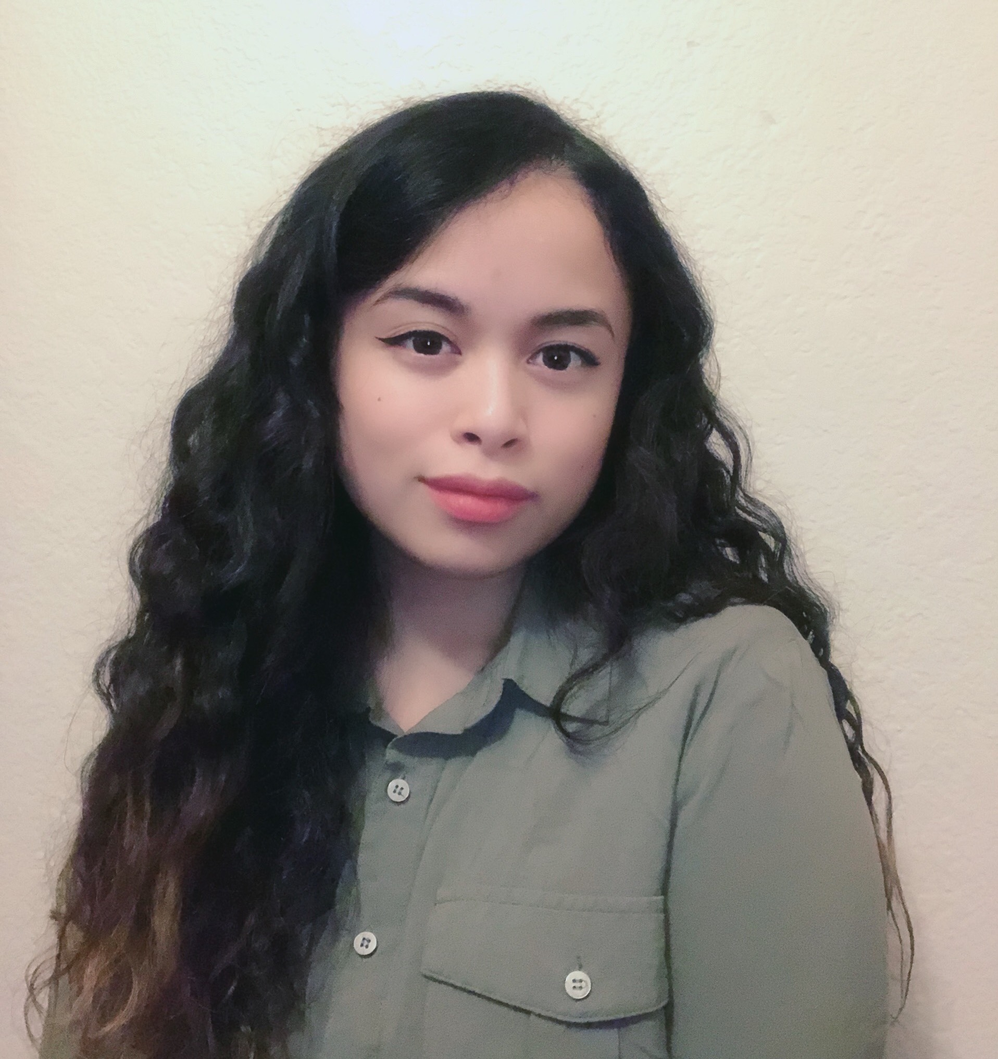
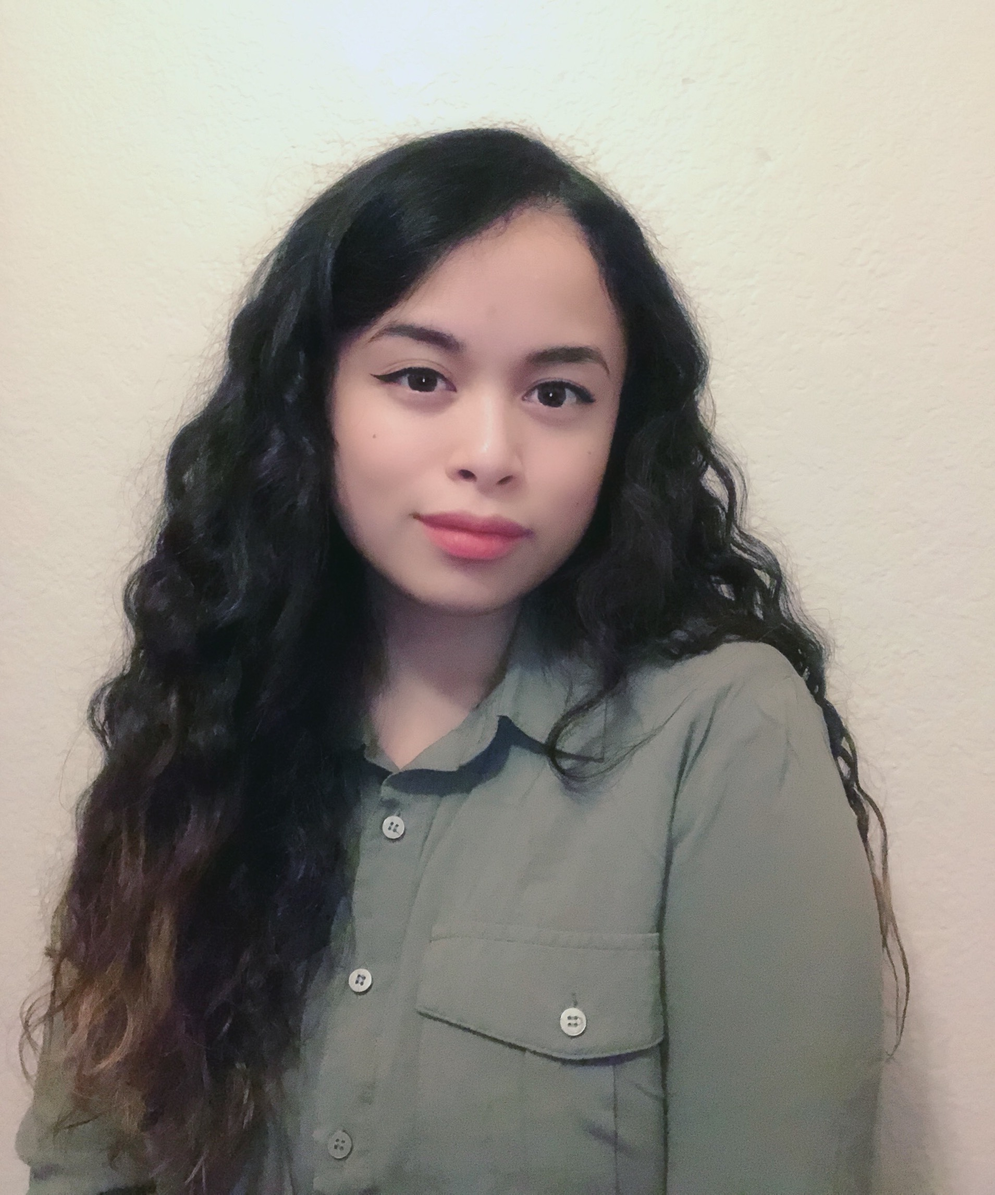
Update profile, case study, and footer

diff --git a/about.html b/about.html
@@ -4,14 +4,15 @@
     <meta charset="utf-8" />
     <meta name="viewport" content="width=device-width, initial-scale=1" />
     <title>About Me</title>
-    <link rel="icon" type="image/jpg" href="img/logo_size.jpg" />
+    <link rel="icon" type="image/png" sizes="32x32" href="favicon_io/favicon-32x32.png" />
+    <!-- <link rel="manifest" href="/site.webmanifest" /> -->
     <link
       rel="stylesheet"
       href="https://cdn.jsdelivr.net/npm/bootstrap@4.5.3/dist/css/bootstrap.min.css"
       integrity="sha384-TX8t27EcRE3e/ihU7zmQxVncDAy5uIKz4rEkgIXeMed4M0jlfIDPvg6uqKI2xXr2"
       crossorigin="anonymous"
     />
-    <link rel="stylesheet" type="text/css" href="css/style.production.css" />
+    <link rel="stylesheet" type="text/css" href="css/styles.css" />
   </head>
 
   <body>
@@ -80,10 +81,13 @@
             data-parent="#accordionParent"
           >
             <div class="card-body">
-              Hi! 👋🏼 &nbsp;I'm a Web Developer with a love for creativity and problem-solving. I
-              enjoy the process of finding creative ways to reach best possible solutions to
-              technical problems. By building web apps, I am continually challenged, creatively
-              inspired, and fulfilled with each project I complete from scratch.
+              Hi 👋🏼 &nbsp;I’m a Project Coordinator-turned-Web Developer. After some time completing
+              projects for construction sites, I decided to pursue a career that would allow me to
+              be more creatively and technically challenged. My diverse background being a project
+              coordinator, assistant camp counselor and a postgraduate student has strengthened my
+              abilities in communication, collaboration, organization, time management, project
+              completion, and research. I am now looking to turn my love for problem-solving and
+              creativity into a full-time career developing web applications.
               <br />
               <br />
               I aspire to join a team of developers and designers who strive to create products that
@@ -97,7 +101,7 @@
               watching my favorite shows and learning a new language (currently learning Korean).
               Sometimes, I dabble in music, painting, baking, cooking, and playing Animal Crossing
               as other creative outlets. I also enjoy drinking milk teas, so I'm often found
-              ordering to go from my favorite places during the weekends!
+              ordering from my favorite places during the weekends!
             </div>
           </div>
         </div>
@@ -132,8 +136,8 @@
                 <li>✅ &nbsp; &nbsp;Assistant Camp Counselor &commat; BrainVyne</li>
               </ul>
               <p>
-                My resume is available for viewing via the link below 👇🏼 &nbsp; Feel free to check
-                it out!
+                My resume is available for viewing via the link below 👇🏼 &nbsp;Feel free to check it
+                out!
               </p>
             </div>
           </div>
@@ -245,12 +249,12 @@
         /></a>
         <br />
         <div class="footer-credit">
-          <img
+          <!-- <img
             src="img/white_logo_transparent_background.png"
             alt="Logo Photo spelling out the name Venus Mae"
             class="footer-logo"
-          />
-          <p class="footer-year">&copy; 2020</p>
+          /> -->
+          <p class="footer-year">Built by Venus Mae &copy; 2021</p>
         </div>
       </div>
     </footer>

diff --git a/case.html b/case.html
@@ -4,18 +4,19 @@
     <meta charset="utf-8" />
     <meta name="viewport" content="width=device-width, initial-scale=1" />
     <title>Case Study</title>
-    <link rel="icon" type="image/jpg" href="img/logo_size.jpg" />
+    <link rel="icon" type="image/png" sizes="32x32" href="favicon_io/favicon-32x32.png" />
+    <!-- <link rel="manifest" href="favicon_io/site.webmanifest" /> -->
     <link
       rel="stylesheet"
       href="https://cdn.jsdelivr.net/npm/bootstrap@4.5.3/dist/css/bootstrap.min.css"
       integrity="sha384-TX8t27EcRE3e/ihU7zmQxVncDAy5uIKz4rEkgIXeMed4M0jlfIDPvg6uqKI2xXr2"
       crossorigin="anonymous"
     />
-    <link rel="stylesheet" type="text/css" href="css/style.production.css" />
+    <link rel="stylesheet" type="text/css" href="css/styles.css" />
   </head>
 
   <body>
-    <header class="page-header container">
+    <header class="page-header container" id="top">
       <nav class="navbar navbar-expand-lg navbar-light">
         <a class="navbar-brand" href="index.html"
           ><img src="img/white_logo_transparent_background.png" alt="Logo of the name Venus Mae"
@@ -435,6 +436,7 @@
           learn new languages/frameworks/libraries through dedicated reading and research.
         </p>
         <p>Thank you for letting me share this journery with you!</p>
+        <button class="toTop-btn"><a href="#top" class="toTop-link">Back to top ⬆</a></button>
       </div>
     </div>
 
@@ -465,12 +467,12 @@
         /></a>
         <br />
         <div class="footer-credit">
-          <img
+          <!-- <img
             src="img/white_logo_transparent_background.png"
             alt="Logo Photo spelling out the name Venus Mae"
             class="footer-logo"
-          />
-          <p class="footer-year">&copy; 2020</p>
+          /> -->
+          <p class="footer-year">Built by Venus Mae &copy; 2021</p>
         </div>
       </div>
     </footer>

diff --git a/css/styles.css b/css/styles.css
@@ -141,7 +141,7 @@ footer {
 }
 
 .footer-credit {
-  margin: 10px auto;
+  margin: 25px auto;
   margin-bottom: 0;
 }
 
@@ -153,7 +153,7 @@ footer {
   text-align: left;
   position: fixed;
   bottom: 95px;
-  z-index: 1;
+  z-index: 5;
 }
 
 #tooltip:hover .tooltiptext {
@@ -163,9 +163,9 @@ footer {
 /* Homepage Styles */
 .profile-portrait {
   float: left;
-  width: 205px;
+  width: 220px;
   margin-right: 30px;
-  border-radius: 50%;
+  border-radius: 50px 0px;
   border: 1px solid var(--span-color);
   animation: 1s fadeInOpacity linear;
   /* box-shadow: 1px 2px 20px var(--box-shadow); */
@@ -183,7 +183,7 @@ footer {
 }
 
 .profile h1 {
-  padding-top: 50px;
+  padding-top: 90px;
   animation: 1s fadeInOpacity linear;
 }
 
@@ -288,7 +288,7 @@ h2.mb-0 .btn:focus {
 .resume-link:focus {
   opacity: 0.7;
   transition: 0.2s linear;
-  animation: shakeFx 1s linear infinite;
+  /* animation: shakeFx 1s linear infinite; */
 }
 
 /* Work Page */
@@ -457,6 +457,17 @@ ul.work-list {
   text-align: center;
 }
 
+a.toTop-link {
+  color: var(--primary-color);
+  font: var(--primary-font);
+}
+
+button.toTop-btn {
+  border-color: transparent;
+  padding: 7px 4px 0 4px;
+  border-radius: 5%;
+}
+
 /* Animations */
 @keyframes fadeInOpacity {
   0% {
@@ -536,7 +547,7 @@ ul.work-list {
     float: none;
     margin: 10px auto;
     margin-top: 20px;
-    width: 165px;
+    width: 160px;
   }
 
   .profile {

diff --git a/work.html b/work.html
@@ -4,14 +4,15 @@
     <meta charset="utf-8" />
     <meta name="viewport" content="width=device-width, initial-scale=1" />
     <title>Projects</title>
-    <link rel="icon" type="image/jpg" href="img/logo_size.jpg" />
+     <link rel="icon" type="image/png" sizes="32x32" href="favicon_io/favicon-32x32.png" />
+    <!-- <link rel="manifest" href="/site.webmanifest" /> -->
     <link
       rel="stylesheet"
       href="https://cdn.jsdelivr.net/npm/bootstrap@4.5.3/dist/css/bootstrap.min.css"
       integrity="sha384-TX8t27EcRE3e/ihU7zmQxVncDAy5uIKz4rEkgIXeMed4M0jlfIDPvg6uqKI2xXr2"
       crossorigin="anonymous"
     />
-    <link rel="stylesheet" type="text/css" href="css/style.production.css" />
+    <link rel="stylesheet" type="text/css" href="css/styles.css" />
   </head>
 
   <body>
@@ -274,12 +275,12 @@
         /></a>
         <br />
         <div class="footer-credit">
-          <img
+          <!-- <img
             src="img/white_logo_transparent_background.png"
             alt="Logo Photo spelling out the name Venus Mae"
             class="footer-logo"
-          />
-          <p class="footer-year">&copy; 2020</p>
+          /> -->
+            <p class="footer-year">Built by Venus Mae &copy; 2021</p>
         </div>
       </div>
     </footer>

diff --git a/index.html b/index.html
@@ -9,9 +9,10 @@
       integrity="sha384-TX8t27EcRE3e/ihU7zmQxVncDAy5uIKz4rEkgIXeMed4M0jlfIDPvg6uqKI2xXr2"
       crossorigin="anonymous"
     />
-    <link rel="stylesheet" type="text/css" href="css/style.production.css" />
+    <link rel="stylesheet" type="text/css" href="css/styles.css" />
     <title>Venus | Web Developer</title>
-    <link rel="icon" type="image/jpg" href="img/logo_size.jpg" />
+    <link rel="icon" type="image/png" sizes="32x32" href="favicon_io/favicon-32x32.png" />
+    <!-- <link rel="manifest" href="/site.webmanifest" /> -->
   </head>
 
   <body>
@@ -94,12 +95,12 @@
         /></a>
         <br />
         <div class="footer-credit">
-          <img
+          <!-- <img
             src="img/white_logo_transparent_background.png"
             alt="Logo Photo spelling out the name Venus Mae"
             class="footer-logo"
-          />
-          <p class="footer-year">&copy; 2020</p>
+          /> -->
+          <p class="footer-year">Built by Venus Mae &copy; 2021</p>
         </div>
       </div>
     </footer>

diff --git a/contact.html b/contact.html
@@ -17,9 +17,10 @@
       href="https://fonts.googleapis.com/css2?family=Poiret+One&display=swap"
       rel="stylesheet"
     />
-    <link rel="stylesheet" type="text/css" href="css/style.production.css" />
+    <link rel="stylesheet" type="text/css" href="css/styles.css" />
     <title>Contact Me</title>
-    <link rel="icon" type="image/jpg" href="img/logo_size.jpg" />
+    <link rel="icon" type="image/png" sizes="32x32" href="favicon_io/favicon-32x32.png" />
+    <!-- <link rel="manifest" href="/site.webmanifest" /> -->
   </head>
 
   <body>
@@ -122,12 +123,12 @@
         /></a>
         <br />
         <div class="footer-credit">
-          <img
+          <!-- <img
             src="img/white_logo_transparent_background.png"
             alt="Logo Photo spelling out the name Venus Mae"
             class="footer-logo"
-          />
-          <p class="footer-year">&copy; 2020</p>
+          /> -->
+          <p class="footer-year">Built by Venus Mae &copy; 2021</p>
         </div>
       </div>
     </footer>
